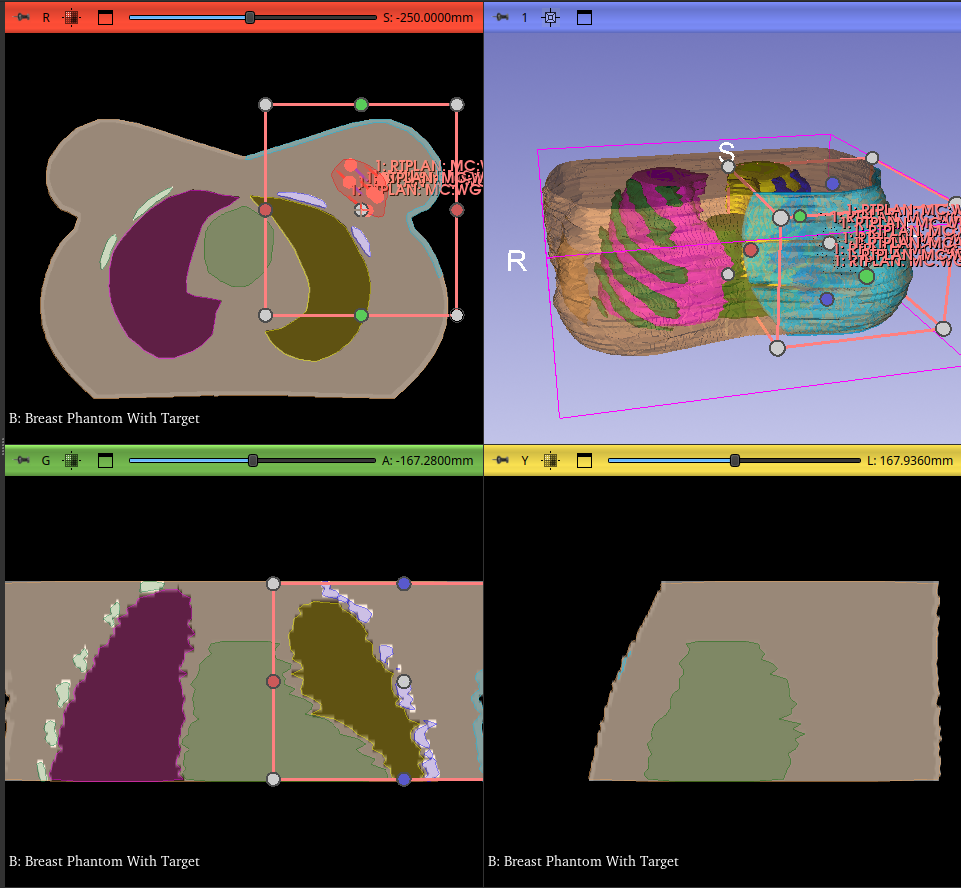
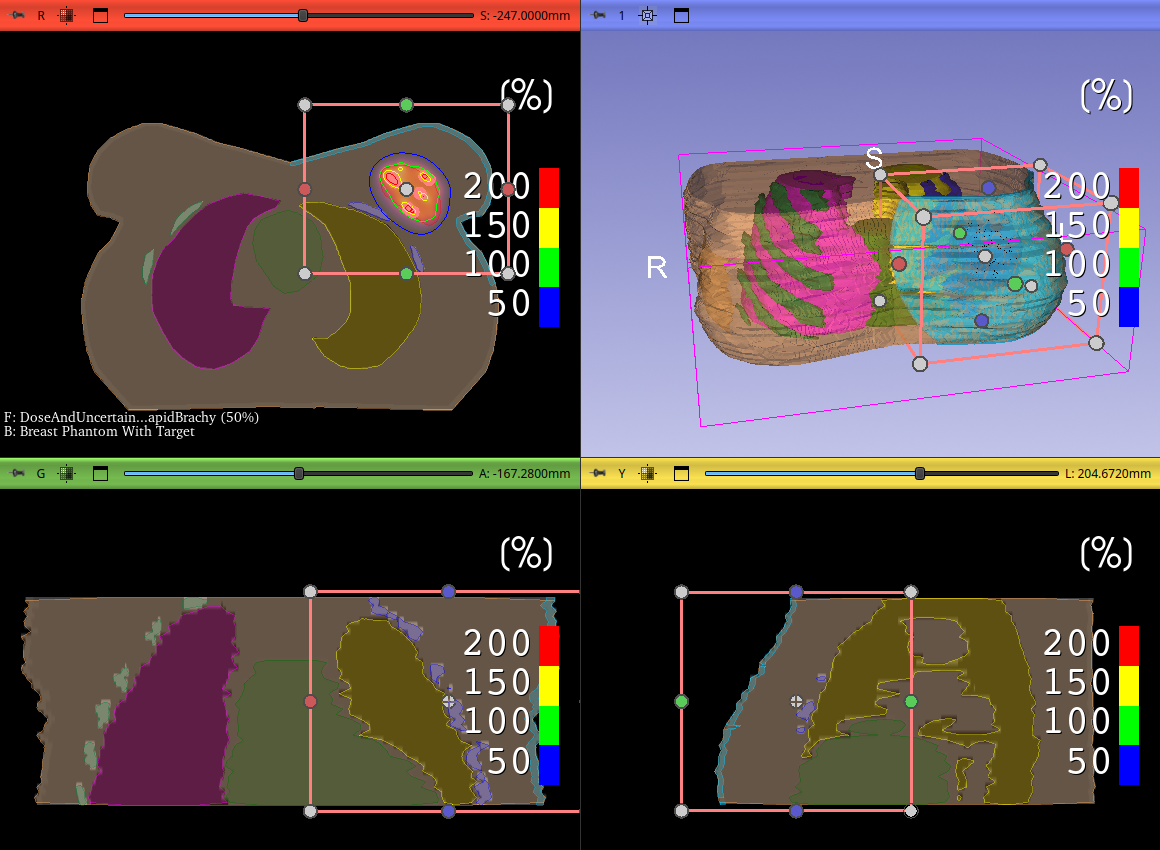
Update documentation to match most recent release

diff --git a/site/index.html b/site/index.html
@@ -189,5 +189,5 @@
 
 <!--
 MkDocs version : 1.6.1
-Build Date UTC : 2026-06-29 18:40:59.599485+00:00
+Build Date UTC : 2026-06-29 18:43:44.043463+00:00
 -->

diff --git a/docs/dose.md b/docs/dose.md
@@ -15,7 +15,7 @@ Before running a dose calculation, verify that you have completed your setup. En
 Enter the desired prescription dose in Grays. Select your desired algorithm for the dose calculation; RapidBrachyMCTPS is equipped with both the conventional TG-43 formalism and a Geant4-based Monte Carlo (MC) engine.
 
 #### TG-43
-1. Enter the path to the TG-43 parameter data, it should have a default path.
+1. Enter the path to the TG-43 parameter data so that it matches the chosen source, it should have a default path. If the parameter data path does not match the chosen source, navigate one directory up to `TG43_Parameter_Data` and select the correct path.
 2. Click `Calculate Dose`.
 3. The dose will be loaded and the catheter table will be populated. The catheter table dwell times can be manually modified.
 
@@ -30,5 +30,9 @@ To perform Monte Carlo simulations, you will need to have installed RapidBrachyM
 3. Enter the desired number of histories. This refers to the number of simulation trials.
 4. Enter the number of threads (computer cores).
 5. Enter a random seed for the simulation.
-6. Click `Calculate Dose`.
-7. The dose will be loaded and the catheter table will be populated. The catheter table dwell times can be manually modified. **Note**: Simulation time depends on several factors, including the number of histories, the size of the ROI, and your computer's performance. As a result, the simulation may take a considerable amount of time to complete.
+6. If you want to calculate the dose for each individual dwell position, select `Prepare for Optimization`. Otherwise, only the combined dose is computed.
+7. Click `Calculate Dose`.
+8. The dose will be loaded and the catheter table will be populated. The catheter table dwell times can be manually modified. **Note**: Simulation time depends on several factors, including the number of histories, the size of the ROI, and your computer's performance. As a result, the simulation may take a considerable amount of time to complete.
+
+## Isodode Lines
+You can customize the isodose lines in the Isodose Levels table by adding or removing levels and modifying their colour scheme.

diff --git a/docs/plan.md b/docs/plan.md
@@ -3,9 +3,19 @@ To initialize a plan, open the **RapidBrachy Module** ![rapidbrachyModule](img/r
 
 ![rapidbrachy](img/rapidbrachy.png){ width="900" }
 
-Once in the **RapidBrachy Module**, open the **Import tab**. Select an `Image Volume` (CT, MRI, or US Image) and `Structure set`, and optionally an `RT plan` or `Dose volume`. Then click `Initialize Plan`.
+Once in the **RapidBrachy Module**, open the **Import tab**. Here, you have two options:
 
-The loaded data will now appear in the viewing panels, overlaid with a pink box representing the Region of Interest (ROI). Adjust this box along all three orthogonal axes to include only the anatomy you want evaluated during dose calculations. Keep in mind that the smaller the ROI, the faster the MC and TG-43 simulations will run.
+1. Create a new plan.
+2. Import an existing plan.
+
+### Create a new plan
+To create a new plan, you must already have loaded DICOM data from the **DICOM Module**, see [instructions under Data Loading and Viewing](import.md#loading-dicom-data). Select an `Image Volume` (CT, MRI, or US Image) and `Structure set`, and optionally an `RT plan` or `Dose volume`. Then click `Initialize Plan`.
+
+### Import an existing plan
+To import an existing plan, it must be a plan that has already been exported by RapidBrachyMCTPS from the **Export tab**, using the RapidBrachyGUI preset.
+
+### Setting a ROI
+Once a plan is created/loaded, the data will appear in the viewing panels, overlaid with a pink box representing the Region of Interest (ROI). Adjust this box along all three orthogonal axes to include only the anatomy you want evaluated during dose calculations. Keep in mind that the smaller the ROI, the faster the MC and TG-43 simulations will run.
 
 ![ROI](img/ROI.png){ width="900" }
 

diff --git a/docs/catheter.md b/docs/catheter.md
@@ -23,8 +23,18 @@ If not, the **Catheter tab** in the RapidBrachy Module allows you to create or r
 
 Repeat steps 2 through 7 for each desired catheter. Once finished, navigate to the **Catheter tab** in the RapidBrachy module. Under `Add new catheter`, input the desired dwell position step size (in mm). Use the `Select Markups Curve` drop-down menu to select your newly created catheters one at a time, clicking `Add` for each. The catheter table will automatically populate based on the drawn curves and your chosen step size, assigning a default dwell time of 1 second to each position.
 
-## Removing Catheters
+## Additional Catheters Options
+Navigate to the **Catheter tab** in the RapidBrachy module. The following operations can be accessed under `Catheter Operations`.
 
-To remove catheters from the table, navigate to the **Catheter tab** in the RapidBrachy module. Under `Catheter Operations`, select the desired catheters and click `Remove`.
+![Catheter_tab](img/catheter_tab.png){ width="500" }
+
+### Removing Catheters
+Select the desired catheters from the drop-down menu and click `Remove`.
 
 **Note:** This action only clears the catheters from the table. If you want to permanently delete the catheter object from the scene, navigate to the Data module, find the object in the node list, right-click it, and select `Delete`.
+
+### Locking Catheter Dwell Times
+Select the desired catheters and click `Lock`. This prevents modifications to the selected catheters and their attributes, including changes to dwell times during optimization.
+
+### Make Shielded
+The shielding feature is described in the [Shielded Applicator section](applicator.md#shielded-applicator).

diff --git a/docs/installation.md b/docs/installation.md
@@ -18,7 +18,7 @@ We recommend the **Standalone Application** for users who want a streamlined, tu
 ### Standalone Application
 This version includes everything you need to run RapidBrachyMCTPS right out of the box.
 
-1. Download the latest release from the OneDrive (provided from Enger Lab).
+1. Download the latest release from the OneDrive (provided by Enger Lab).
 2. Extract the downloaded archive to your preferred directory.
 3. Run the `RapidBrachyMCTPS` executable file.
 
@@ -46,7 +46,7 @@ in the Python console to make sure the module is installed. You may get pydantic
 Next, you'll need to install SlicerRT. Open 3D Slicer, click on `Extension Manager` ![extension_manager](img/extension_manager.png){ width="25" } and type SlicerRT in the search bar. Install SlicerRT and restart 3D Slicer.
 
 #### Install RapidBrachyGUI
-Next, you'll need to install RapidBrachyGUI. Open 3D Slicer, click on `Edit`, then open `Application Settings`. On the left panel, click `Modules`, go to the `Additional module paths:` and add the path to RapidBrachyGUI. Then restart 3D Slicer.
+Next, you'll need to install RapidBrachyGUI. Open 3D Slicer, click on `Edit`, then open `Application Settings`. On the left panel, click `Modules`, go to the `Additional module paths:` and add the path to `RapidBrachyGUI/RapidBrachy`. Then restart 3D Slicer.
 
 ![edit](img/edit.png){ width="400" }
 

diff --git a/docs/applicator.md b/docs/applicator.md
@@ -75,4 +75,10 @@ After loading, the applicator will appear in the viewing panels. You can adjust 
 Once properly positioned, click `Lock Applicator` to automatically populate the catheter table with the dwell positions. If you need to make further adjustments, click `Unlock Applicator`; note that this action will clear the current dwell positions from the table.
 
 ## Shielded Applicator
-The shielded applicator feature is currently under development.
+### To make the applicator shielded for Intensity Modulated BrachyTherapy (IMBT)
+
+1. Navigate to RapidBrachy module's **Catheter tab**. Under `Catheter Operations`, select the catheter(s) that should be shielded. 
+2. Select the starting angle (with respect to the applicator's current placement), the stopping angle, and the step size in degrees.
+3. Click `Make Shielded`. This will populate your catheter table with dwell positions for each individual angle.
+
+**Note: If you are running TG-43 simulations, use the TG-43S algorithm instead of the standard TG-43.**

diff --git a/docs/source.md b/docs/source.md
@@ -5,7 +5,7 @@ To choose a source, navigate to the **Source tab** in the RapidBrachy module. Yo
 ### Database of Source Characteristics
 The table below details the air-kerma strength and air-kerma per history for various brachytherapy sources and isotopes, as calculated by RapidBrachyTG43. Note that any digit enclosed in parentheses represents the absolute uncertainty in the final digit of the value.
 
-| Source Name | Isotope | Air-kerma strength per 10 Curie [U/10 Ci] | Air-kerma strength per unit activity [10<sup>-8</sup> U/Bq] |Air-kerma per history strength |
+| Source Name | Isotope | Air-kerma strength per 10 Curie [U/10 Ci] | Air-kerma strength per unit activity [10<sup>-8</sup> U/Bq] |Air-kerma per history strength [10<sup>-11</sup> U/history] |
 |---|---|---|---|---|
 | **SelectSeed** | I-125 | 7666.4 | 2.072(4) | TODO |
 | **microSelectron-v2** | Ir-192 | 35827.1 | 9.683(6) | 1.161(9) |

diff --git a/docs/export.md b/docs/export.md
@@ -4,9 +4,8 @@ You can export your treatment plan from the RapidBrachy module's **Export tab**.
 
 1. Enter the path to your desired output directory.
 2. Select a file format from the list of preset configurations:
+    - **RapidBrachyGUI**: exports plan formatted for RapidBrachyMCTPS. It can be easily loaded using the Import Plan feature in the **Import tab**.
     - **RapidBrachyMC**: exports plan formatted for if you want to run a Monte Carlo simulation.
-    - **Slicer**: exports plan in 3D Slicer format (scene).
     - **DICOM**: exports plan as DICOM files.
-    - **brachyutils**: export as files readable by brachyutils (.nrrd and .json).
 3. If you want to export the simulation files for each individual dwell position, select `Prepare for Optimization`. Otherwise, only the files for the combined plan are exported. 
 4. Click `Export`.

diff --git a/docs/import.md b/docs/import.md
@@ -4,7 +4,7 @@ You can import DICOM files by clicking `File` then `Add DICOM Data` or by clicki
 
 ![dicom](img/dicom.png){ width="300" }
 
-This opens the DICOM Module, where you can import DICOM files and access your DICOM database. Click `Import DICOM files`, select your files, and import them into the database. The database maintains a cached list of patients that can then be loaded into the visualizer.
+This opens the **DICOM Module**, where you can import DICOM files and access your DICOM database. Click `Import DICOM files`, select your files, and import them into the database. The database maintains a cached list of patients that can then be loaded into the visualizer.
 
 ![import_dicom](img/import_dicom.png){ width="900" }
 

diff --git a/docs/about.md b/docs/about.md
@@ -39,7 +39,7 @@ RapidBrachyMCTPS is made possible through the continuous collaborative efforts o
 * Remi Walhain
 * Shirin A. Enger
 
-### Groups Contributing to RapidBrachyMCTPS's Core Engineering
+### Major Software Dependencies
 * 3D Slicer
 * Kitware
 * Geant4
